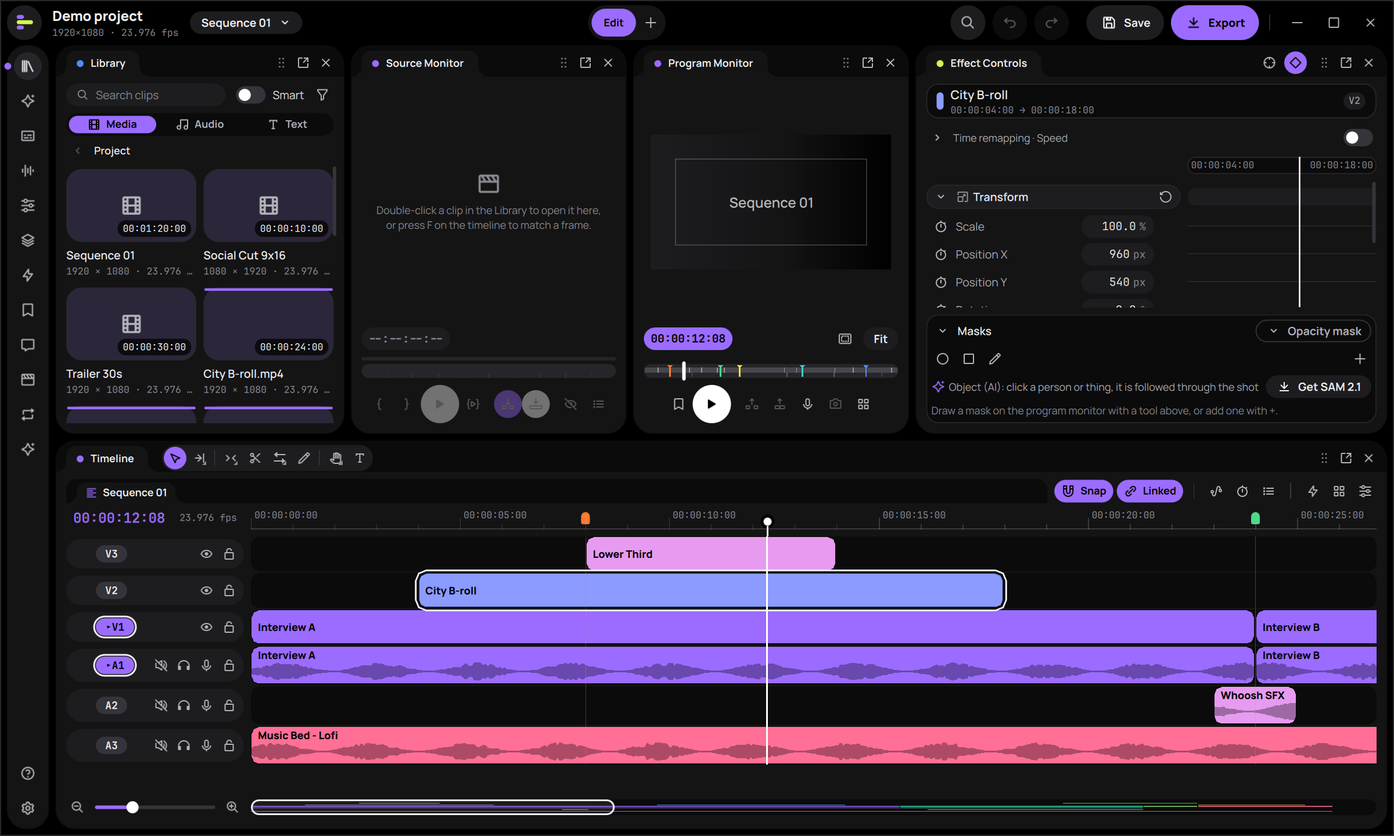
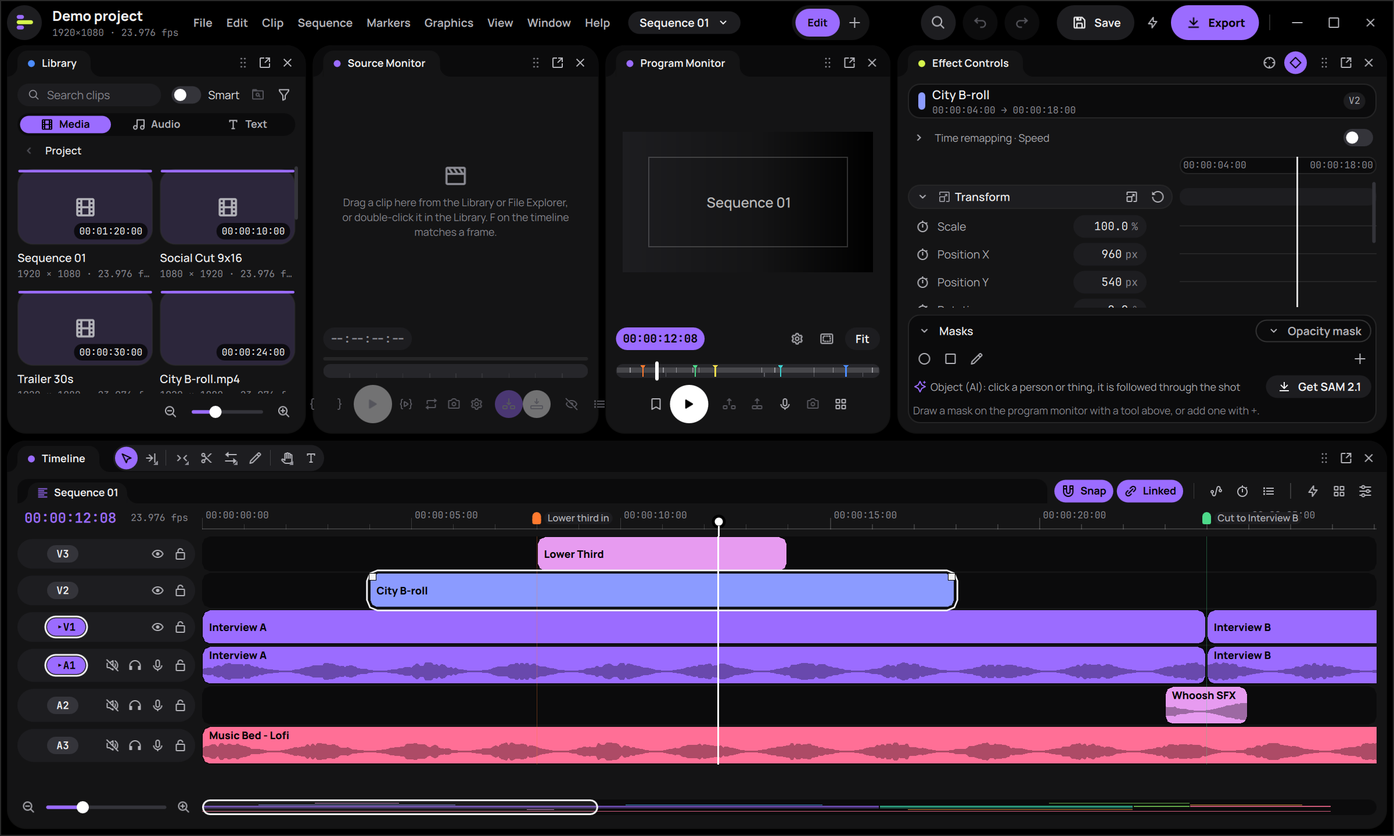
release: version 0.3.0 - release notes, roadmap, README, What's new
- CMakeLists.txt: 0.3.0. docs/release-notes-0.3.md: the 0.3.0 section the release text quotes, known issues; the
  install tree carries it. Project schema unchanged (18): 0.3 and 0.2 open each other's projects.
- Roadmap: 0.3.0 shipped. README: version, the current release, a new editor screenshot (menu bar, no rail).
- What's new: four 0.3 highlights first; the gaming highlight says what Home does now.

diff --git a/src/app/qml/onboarding/WhatsNewDialog.qml b/src/app/qml/onboarding/WhatsNewDialog.qml
@@ -9,9 +9,17 @@ WabcutDialog {
     id: dialog
     objectName: "whatsNewDialog"
 
-    // Keep in step with docs/roadmap.md when a milestone lands. This build: 0.2's Premiere parity first, then the gaming
-    // wave (M5o), M5k-M5n, C.7-C.12, A.3-A.9, AI-9-AI-13.
+    // Keep in step with docs/roadmap.md when a milestone lands. This build: 0.3's Home, menu bar, Effects panel and
+    // everyday editing first, then 0.2's Premiere parity, the gaming wave (M5o), M5k-M5n, C.7-C.12, A.3-A.9, AI-9-AI-13.
     readonly property var highlights: [
+        { key: "homeStart", icon: "house", title: qsTr("A new Home"),
+          text: qsTr("Home, Projects and Learn pages, one Import for files, folders and timelines, and a New project page with Advanced settings that can start from your media.") },
+        { key: "menuBar", icon: "columns-3", title: qsTr("A menu bar and a Window menu"),
+          text: qsTr("Premiere's menus in the title bar, each command with its shortcut. Window opens a panel in the group you clicked last, and Maximize Frame gives a group the whole work area.") },
+        { key: "effectsFolders", icon: "folders", title: qsTr("Effects in Premiere's folders"),
+          text: qsTr("Favorites, Presets, Video Effects and the rest in a List, Compact or Icons view; presets import and export per bin, and a double-click applies to every selected clip.") },
+        { key: "everyday", icon: "check", title: qsTr("Quicker everyday editing"),
+          text: qsTr("Type a timecode to jump, ripple-delete a gap, add or delete tracks from a header's menu, read marker names on the ruler, search Settings, and export with your last choices.") },
         { key: "premiereTools", icon: "film", title: qsTr("More of Premiere"),
           text: qsTr("Premiere's 41 transitions and about 70 effects, Optical Flow slow motion, Morph Cut, Warp Stabilizer, clip groups and fade handles.") },
         { key: "exportQueue", icon: "list", title: qsTr("A Media Encoder queue"),
@@ -25,7 +33,7 @@ WabcutDialog {
         { key: "aiNested", icon: "sparkles", title: qsTr("AI through nested clips"),
           text: qsTr("Highlights, Auto Reframe and object masks read through multicam and nested clips; Redact finds the faces; sound effects come from a prompt with your own key.") },
         { key: "gamingStart", icon: "gamepad-2", title: qsTr("Made for gaming videos"),
-          text: qsTr("Drop an OBS or ShadowPlay recording on Home: its frame rate is kept, each audio track gets its own named track, and long or high-fps files get proxies.") },
+          text: qsTr("Drop an OBS or ShadowPlay recording on Home: the New project page matches its frame rate, gives each audio stream its own named track, and 4K, high-fps or long files get proxies.") },
         { key: "highlights", icon: "zap", title: qsTr("Find the highlights"),
           text: qsTr("Wabcut ranks the loudest, busiest moments of a VOD on this computer, then builds a highlight reel or a Short from the ones you keep.") },
         { key: "layouts", icon: "layout-grid", title: qsTr("Facecam layouts"),

diff --git a/tests/app/test_accessibility_m5n.cpp b/tests/app/test_accessibility_m5n.cpp
@@ -738,7 +738,8 @@ TEST_CASE("What's new M5n: this build's highlights, each one spoken; screenshot"
         CHECK_FALSE(h.toMap().value(QStringLiteral("title")).toString().isEmpty());
         CHECK_FALSE(h.toMap().value(QStringLiteral("text")).toString().isEmpty());
     }
-    CHECK(keys == QStringList{QStringLiteral("premiereTools"), QStringLiteral("exportQueue"),
+    CHECK(keys == QStringList{QStringLiteral("homeStart"), QStringLiteral("menuBar"), QStringLiteral("effectsFolders"),
+                              QStringLiteral("everyday"), QStringLiteral("premiereTools"), QStringLiteral("exportQueue"),
                               QStringLiteral("monitorMotion"), QStringLiteral("projectPanel"), QStringLiteral("audioPost"),
                               QStringLiteral("aiNested"), QStringLiteral("gamingStart"), QStringLiteral("highlights"),
                               QStringLiteral("layouts"), QStringLiteral("callouts"), QStringLiteral("moments"),
@@ -753,12 +754,12 @@ TEST_CASE("What's new M5n: this build's highlights, each one spoken; screenshot"
     QQuickItem* list = findNamed(popupItem(dialog), QStringLiteral("whatsNewList"));
     REQUIRE(list);
     CHECK(list->property("count").toInt() == highlights.size());
-    QQuickItem* first = findNamed(popupItem(dialog), QStringLiteral("whatsNew_premiereTools"));
+    QQuickItem* first = findNamed(popupItem(dialog), QStringLiteral("whatsNew_homeStart"));
     REQUIRE(first);
     QAccessibleInterface* iface = QAccessible::queryAccessibleInterface(first);
     REQUIRE(iface);
     CHECK(iface->role() == QAccessible::ListItem);
-    CHECK(iface->text(QAccessible::Name).startsWith(QStringLiteral("More of Premiere. ")));
+    CHECK(iface->text(QAccessible::Name).startsWith(QStringLiteral("A new Home. ")));
     CHECK_ACCESSIBLE(popupItem(dialog));
     spin(150);
     const QImage image = shell.grab();

diff --git a/docs/release-notes-0.3.md b/docs/release-notes-0.3.md
@@ -1,0 +1,219 @@
+# Wabcut 0.3: release notes (0.3.0)
+
+Windows 10/11 x64, with preview builds for Linux x64 and macOS on Apple silicon. Free and open source
+(GPL-3.0-or-later). No account, no subscription.
+
+Wabcut 0.3 changes how the app is laid out more than what it can edit. Home is now a start window with pages and one
+Import for everything. The editor has Premiere's menu bar and Window menu in place of the left rail, and the Effects
+panel uses Premiere's folders. Many everyday steps in the timeline, the monitors, the Library, Export and Settings take
+fewer clicks, and several shortcuts that did nothing in 0.2 now work.
+
+The project file format has not changed since 0.2 (schema 18): Wabcut 0.3 and 0.2 open each other's projects, and
+Wabcut 0.3 opens 0.1 projects.
+
+## 0.3.0 (23 October 2026)
+
+### Home
+- **A start window with pages:** **Home**, **Projects** and **Learn** in the bar on the left, and a **New project**
+  page. The window itself does not scroll; long lists scroll inside their own area. Along the top: a search over your
+  projects, **Open…** (Ctrl+O), **Import…** (Ctrl+I), **New project** (Ctrl+N or Ctrl+Alt+N) and **Back to …**
+  (with the project's name) when a project is open behind Home; Esc does the same. Ctrl+F goes to the search and Ctrl+,
+  opens Settings.
+- **The Home page:** **Continue** (the project you opened last, with Open and Show in Explorer), **Start** (New
+  project, Open project…, Import…, a drop well, Import folder… and a link to the guide for timelines from Premiere,
+  Resolve or Final Cut) and **Recent** (your latest projects as cards).
+- **One Import for everything:** Import…, Import folder… (read with its subfolders, up to 1,000 files) or files dropped
+  anywhere on Home. A Wabcut project opens. A timeline (FCP7 XML, FCPXML, OpenTimelineIO, EDL) becomes a new project
+  with its import report. A Premiere `.prproj` asks before the experimental reader runs. Files Wabcut cannot read (a
+  Resolve `.drp`, a Final Cut library, AAF, a dotLottie archive, a picture dragged from a web browser) say what to do
+  instead, with **How to export**. Media open the New project page with the files.
+- **New project page:** format tiles grouped Landscape / Vertical & square / Custom, with 1440p60, 4K UHD at 60 fps and
+  vertical 9:16 at 60 fps added; a free default name ("Untitled Project", "Untitled Project 2"…); the location; and a
+  summary line ("1920 × 1080 · 29.97 fps · 48 kHz stereo · 3 video / 3 audio tracks"). **Advanced settings** has the
+  frame size, the frame rate (up to 240 fps) and drop-frame timecode, pixel aspect, fields, start timecode, audio sample
+  rate, audio master (stereo or 5.1), how many video and audio tracks (1 to 99) and their format, colour management
+  and the preview file format, with **Reset to defaults**. These apply before the project exists, so a new project has
+  no undo step and nothing unsaved. Your last format and settings are filled in next time. A location that cannot be
+  made (a drive that is not there) is refused before anything is created.
+- **Start with media:** media imported from Home open the New project page with the files listed (remove any with ×),
+  **Match my media** chosen (the first video's size and frame rate; a variable frame rate becomes its nominal rate), the
+  first file's name, and **Add the clips to the sequence** on, so Create puts them on the timeline one after another.
+  A recording with several audio streams shows each stream on its own named track (Game, Mic, Discord) or left out,
+  and the project gets one audio track per stream you keep. Chips mark 4K, high frame rate, long, variable frame rate
+  and HDR media; proxies are made for 4K, above 60 fps, or 20 minutes and longer. This replaces 0.2's "New gaming
+  video" card.
+- **Projects page:** All or Starred, sorted by Last opened or Name, as a grid or a list (Wabcut remembers your choice).
+  Each project's menu (its **…** button, a right-click, the Menu key or Shift+F10) has Open, Open Next to This One, Show
+  in Explorer, Copy Path, Star / Unstar, **Locate…** (a project whose file moved) and Remove from List (a starred
+  project is unstarred too; Undo stars it again). The arrows move
+  between projects, Enter opens, and Delete removes one from the list with **Undo** (or Ctrl+Z) for a few seconds.
+  **Clear Unstarred Projects…** asks first. The list shows 50 projects (it was 12; Settings can change it), and starred
+  projects always stay.
+- **Learn:** **Explore the sample project** (it moved here from Home's header), the tour, the Keyboard Trainer and
+  What's new; the user guide on the Wabcut website (getting started, the window, coming from Premiere Pro, moving
+  timelines between editors, keyboard shortcuts, gaming videos, Shorts, video essays, documentaries); release notes,
+  the roadmap and reporting an issue. When Wabcut starts, the sample project waits behind Home until you open it from
+  Learn.
+- Home's messages (an import that failed, guidance, an open or save that failed) show in a strip under the top bar,
+  with an action where there is one (Save As…).
+
+### The editor's shell
+- **A menu bar** in the title bar, in Premiere's order: File, Edit, Clip, Sequence, Markers, Graphics, View, Window,
+  Help. Each command shows its shortcut and is greyed out when it cannot run now. A command acts where you were before the
+  menu opened: Mark In with the Source Monitor focused marks the source, Copy in a text field copies its text. Alt+F,
+  E, C, S, M, G, V, W and H open the menus on Windows and Linux (unless you gave that key to a command); Left and Right
+  move between open menus. In a narrow window the menus fold into one **Menu** button.
+- **File** adds **Open Recent** (the last ten projects, and Clear Recent), **Close Panel** (Ctrl+W), **Close Project**
+  (Ctrl+Shift+W; with only one project open, Home shows with the sample project behind it), **Save a Copy…**
+  (Ctrl+Alt+S: the project as it is now goes to another file, and you keep working in this one) and **Revert** (back to
+  the saved version, after a confirmation). **Edit** ends with **Settings…** (Ctrl+,).
+- **Window** has the workspaces (switch, New Workspace from a preset, Duplicate, Rename…, Delete…), **Maximize
+  Frame**, **Reset Panel Layout**, History and every panel. A closed panel opens as a tab in the **group you clicked
+  last**, which has an outline in the accent colour (violet unless you changed it); a panel that is open already comes forward where it is. Either way it gets the
+  keyboard.
+- **The left rail is gone.** The work area starts at the window's edge, the panels open from the Window menu, and
+  Settings > Interface no longer has the rail's editor.
+- **Maximize Frame:** **\`** maximizes the panel group under the pointer, **Shift+\`** the active group, and a
+  double-click on a tab does it too; the same again brings the other panels back.
+- **The tab menu:** right-click a panel's tab for Close Panel, Close Other Panels in Group, Undock Panel, Undock Panel
+  Group (Dock Panel Group while it has a window) and Maximize / Restore Frame. A lone panel's tab drags like a grouped
+  one.
+- **Help:** the Wabcut User Guide, Getting Started, Coming from Premiere Pro and Keyboard Shortcuts pages on the
+  website, then Keyboard Shortcuts…, Welcome and Setup…, Take the Tour, Keyboard Trainer…, What's New, Release Notes,
+  Open the Sample Project, Report an Issue and About Wabcut.
+- **One Wabcut at a time:** a `.wabcut` you double-click in File Explorer while Wabcut runs opens in that window
+  (Wabcut asks about unsaved changes first; the project that is already open just comes forward). `--new-instance` starts a second Wabcut.
+- **The window opens where you left it:** its size, position and maximized state; centred on the main screen when its
+  monitor is gone.
+- **Shortcuts that did nothing in 0.2 now work:** Shift+5 (Effect Controls), Alt+Shift+0 (Window > Reset Panel Layout,
+  with Undo on its message), Shift+` (Maximize Frame), Ctrl+W (Close Panel), Ctrl+Shift+W (Close Project), Ctrl+Alt+S (Save
+  a Copy), and Left / Right in the History panel. Settings (Ctrl+,) is a keymap command now, so you can give it another
+  key.
+- **The command palette** lists "Open panel: …", "Workspace: …", "Open Recent: …" and every setting, and the window
+  and workspace commands no longer say "Not available yet".
+- **Messages** at the bottom right can carry an action (Undo, Save As…, Show in Explorer) and stay while the pointer
+  is on them. A project that cannot be opened or saved always says why, and a failed save offers Save As…. Leaving the
+  sample project after editing it first asks "Discard your changes to the sample project?".
+
+### The Effects panel
+- **Premiere's folders:** Favorites (when you have some), Presets, Lumetri Presets, Audio Effects, Audio Transitions,
+  Video Effects, Video Transitions, Audio Plug-ins, then your custom bins. Presets bins nest and folders show how many
+  items they hold. At the next start the folders are closed except Favorites and the one you opened last; the folders
+  inside keep their state. A search opens every folder with a match and counts the matches; clearing it puts your
+  folders back as they were.
+- **Views and filters:** **List**, **Compact** or **Icons** (remembered), and a filter for All, Video, Audio,
+  Transitions, Presets, Favorites or Audio Plug-ins. Audio plug-ins can go in Favorites and custom bins, and the panel
+  remembers whether they are grouped by vendor or by category.
+- **Apply to every selected clip:** a double-click or Enter puts an effect, a preset or an audio plug-in on every
+  selected clip in one undo step. A transition goes on both ends of each selected clip.
+- **Presets per bin:** a presets bin's menu has **Import Presets…** (into that bin) and **Export Presets…** (that bin's
+  presets, as `<bin>.wabcut-presets.json`); the file dialogs start in the folder you used last.
+- **Drag and drop in the panel:** an effect dropped on a custom bin goes in it, one of your presets dropped on a
+  presets bin moves there, and a `.wabcut-presets.json` file dropped from File Explorer is imported.
+- **Menus:** Apply to Selected Clips, Add to / Remove from Favorites, Add to Custom Bin, Remove from the bin, **Set as
+  Default Transition**, Preset Properties…, Export Preset…, New Presets Bin, Rename, Delete…, Expand All and Collapse
+  All.
+- **Deletes ask first** (Delete or Backspace, or the menus). F2 renames a custom bin or one of your presets bins in
+  place, and a new custom bin appears ready to name. The keyboard moves through folders and items (arrows, Home, End,
+  Page Up, Page Down; Left and Right close and open folders). A status line says what happened and clears itself; a
+  banner says when the presets library cannot be read.
+
+### Timeline and monitors
+- **Type a time:** click the timecode of the Timeline, the Program Monitor or the Source Monitor and type a timecode,
+  digits ("10203" is 00:01:02:03 in a timecode display, a frame count in Frames display), Premiere's shorthand ("2." is two seconds) or an offset ("+15", "-1:00"). Enter goes
+  there, Esc cancels. A time that drop-frame timecode skips goes to the next one that exists.
+- **Gaps:** click the empty space between two clips to select the gap. Delete (while the Timeline has the focus) or
+  right-click > **Ripple Delete** closes it in one undo step, or says why not (a sync-locked track with clips in that
+  time).
+- **Track headers** of video and audio tracks have a menu (right-click, the Menu key or Shift+F10): Rename…, Add Video
+  Track Above / Add Audio Track Below, **Add Tracks…** (how many of each kind, where, and the audio format), **Delete
+  Track** (it asks first when the track has clips), **Delete Empty Tracks** and Sync Lock. Double-click or F2 renames a
+  track in place, and its name shows beside V1 / A1 where there is room. Each is one undo step.
+- **Marker names on the ruler,** cut short before the next marker. Pointing at a marker shows its name, comment, time
+  and length, on the Program Monitor's time bar too.
+- **Default transitions:** choose the default video and audio transitions in Settings > Timeline & editing, or with
+  Set as Default Transition; Ctrl+D, Ctrl+Shift+D and Shift+D use them. Right-click a transition on the timeline for
+  **Set Duration…**, Center / Start / End at Cut, Replace with the default, Set as Default Transition and Clear.
+- **Reveal:** the clip menu has **Reveal in Project** (selects the clip's item in the Library and brings the Library
+  forward; give it a key in Keyboard Shortcuts: `clip.revealInProject`) and **Reveal in File Explorer**.
+- **Source Monitor drops:** drop a Library clip on the Source Monitor to open it there, or a file from File Explorer to
+  import it and open it.
+- **In and Out from the Library:** a Library item dragged to the timeline edits in only the In to Out you marked in the
+  Source Monitor, and its card shows that range as a band, with its length on the badge.
+- **Snap** and the time remapping view stay the way you left them at the next start.
+
+### Library, export and settings
+- **Library:** a thumbnail-size slider in the icon view, between zoom-out and zoom-in buttons; = and - (and Shift+] /
+  Shift+[) size the cards. Home, End, Page Up, Page Down and Shift with the arrows move or extend the selection in the
+  grid, list and Freeform views.
+- **Export remembers** the preset (or gaming preset), the range and the folder you used last. A sequence with In and
+  Out marks starts on In to Out (unless you last chose the whole sequence), and the button then says **Export In to
+  Out**. Picking another preset keeps the range you chose. **Reset to defaults** forgets it all.
+  Quick Export remembers its preset, has a Range row when the sequence has In/Out marks or a work area, and its preset
+  list works with the keyboard.
+- **Background work says when it ends:** Quick Export starting (Cancel), an export finished (Show in Explorer) or
+  failed with the reason (Show the queue), and Render In to Out done or failed (Try Again). While Home is open these
+  show in Home's message strip.
+- **Search in Settings:** the field at the top of Settings finds a setting by its name or a keyword ("proxies", "dark",
+  "default folder") and opens its page on it. The command palette lists every setting too.
+- **Start-up:** Settings > General > **When Wabcut starts**: Show Home, or Reopen the last project (not after a crash
+  or when there are autosaves to recover).
+- **Project defaults** in Settings > General > Projects: the default location for new projects, how many recent
+  projects to show, and project locking.
+
+### Fixes
+- Effect presets did not work from the panels: Save Preset, favourites, custom bins and Import / Export Presets
+  answered "No project", because the presets part of the app never got the open project. They work now.
+- The graphics tools in Callouts > Edit (Align and Distribute, Text Styles, Roll and Crawl) answered "No project" for
+  the same reason, and the Title Style panel's text styles list stayed empty.
+- File > Open Project…, an import or a drop of the project you are working in read it again from disk and dropped its
+  undo history; it now stays as it is (File > Revert reads the saved file again).
+- A panel dropped onto the Source and Program Monitors where they share a narrow place split them into two narrow
+  columns. A drop there now does nothing and the overlay says why; left or right of the pair it docks beside them.
+  Presses and hover there go to the monitor that is shown.
+- In a sequence that counts in frames or feet+frames (Sequence Settings > Display Format), typed lengths and times
+  (Speed/Duration, transition durations, caption times, marker times) are read in that format. They were read as
+  timecode.
+- Media with a variable frame rate that start a new project (imported or dropped over the sample project) give it
+  their nominal frame rate instead of 30 fps.
+- Importing media together with Lottie files over the sample project (File > Import, a drop on the timeline) put the
+  animations in the sample, where they were lost when the new project started; they now go into the new project.
+- Caption files dropped alone on Home made a project behind Home and said nothing; they now open the New project page,
+  and the project gets them as caption tracks.
+- A built-in Lumetri look that was exported and imported again was stuck in a bin you could not delete; it now lands
+  in a presets bin of its own that you can rename or delete.
+- The Effects panel no longer lists Essential Sound: that entry is the Essential Sound panel's record of a clip and
+  did nothing to the sound when applied from the Effects panel.
+
+What is not done or not checked yet is under [Known issues](#known-issues).
+
+## Known issues
+- The 0.3 changes are verified by automated tests only, in hidden windows. None of them has been through a release run
+  with real projects yet: keep backups of your projects.
+- Drag and drop (files dropped on Home, a picture dragged from a web browser, inside the Effects panel, onto the Source
+  Monitor, files from File Explorer onto the Effects panel) was tested with simulated drops, not with a real mouse drag. Pointing at markers on the ruler and the time bar was
+  tested with simulated hover only.
+- Screen readers have not been checked by hand (NVDA, Narrator). The Effects panel's rows report keyboard focus to
+  them, but whether a screen reader announces it is not confirmed, and folders say "open" or "closed" in their
+  description instead of as an expanded state (that needs Qt 6.12).
+- A gap can only be selected and a timeline transition's menu only opened with the pointer; a lone panel's tab menu has
+  no key (its actions do: Ctrl+W, Shift+`, the pop-out button). The timecode field opens with a click, or from the
+  keyboard once the timecode has the focus.
+- Applying a transition from the Effects panel puts it on both ends of each selected clip: Wabcut has no edit-point
+  selection yet. Dragging it onto an edit point works as before.
+- The Library's thumbnail slider is in the icon view only (the Freeform view's card size is an edit with its own undo
+  step). Ctrl+Delete and the next/previous field keys of Premiere's Project panel still do nothing.
+- On Home, Ctrl+N is New project; in the editor it stays New Sequence, as in Premiere. The History panel still has no
+  Delete or Clear.
+- Only project files go to the Wabcut that is running; a launch with media files starts its own Wabcut. On macOS the
+  menus have no Option+letter keys (Option+letter types accented characters there).
+- Linux and macOS are preview builds: nobody has tried the new Home, the menu bar, the single instance or the window
+  placement on a real Linux or macOS machine yet. The [0.2 known issues](release-notes-0.2.md#known-issues) still
+  apply.
+- Not code-signed; no auto-update. Real local-AI quality and live cloud-provider runs are not benchmarked.
+
+## Privacy
+
+Nothing leaves your computer unless you turn on a cloud feature with your own key, and every cloud call is shown with its
+cost first. Redacted regions and bleeped words are never uploaded in clear. Crash reports stay local until you choose
+to share them, and never contain API keys.

diff --git a/README.md b/README.md
@@ -9,7 +9,7 @@
 Premiere Pro's shortcuts and edit rules · round trips with Premiere, Resolve and Final Cut · AI that runs on your own machine
 
 [![Status: alpha](https://img.shields.io/badge/status-alpha-D6F54C)](#project-status)
-[![Version 0.2.0](https://img.shields.io/badge/version-0.2.0-9B6CFF)](docs/release-notes-0.2.md)
+[![Version 0.3.0](https://img.shields.io/badge/version-0.3.0-9B6CFF)](docs/release-notes-0.3.md)
 [![Platforms: Windows, with Linux and macOS previews](https://img.shields.io/badge/platforms-Windows%20%7C%20Linux%20%7C%20macOS%20%28preview%29-1D1D20)](#install)
 [![License: GPL-3.0-or-later](https://img.shields.io/badge/license-GPL--3.0--or--later-blue)](LICENSE)
 [![C++23](https://img.shields.io/badge/C%2B%2B-23-00599C?logo=cplusplus&logoColor=white)](docs/building.md)
@@ -21,18 +21,19 @@ Premiere Pro's shortcuts and edit rules · round trips with Premiere, Resolve an
 </div>
 
 > [!WARNING]
-> **Wabcut is in development. This is an alpha version (0.2.0).**
+> **Wabcut is in development. This is an alpha version (0.3.0).**
 > Expect bugs, missing features and changes between versions, including to shortcuts, settings and the project format.
 > Keep backups of your projects and media, and don't rely on it yet for deadline work or sensitive material.
 
-![The Wabcut editor: library, source and program monitors, effect controls and a multi-track timeline](docs/images/editor.png)
+![The Wabcut editor: the menu bar, library, source and program monitors, effect controls and a multi-track timeline](docs/images/editor.png)
 
 ## Why Wabcut
 
 - **Edit like Premiere.** Premiere Pro's default shortcuts and tools, `.kys` shortcut import and a Keyboard Trainer, so
   your muscle memory carries over. Since 0.2, Premiere's transitions and effects, Optical Flow, Warp Stabilizer, a
   Media Encoder-style export queue and the Project panel's metadata, search bins and Media Browser are there too
-  ([how it compares](docs/premiere-parity.md)).
+  ([how it compares](docs/premiere-parity.md)). 0.3 adds Premiere's menu bar, its Window menu and the Effects panel's
+  folders.
 - **Bring your edit with you.** Import timelines from Premiere Pro, DaVinci Resolve and Final Cut Pro (FCP7 XML,
   FCPXML, OpenTimelineIO, EDL) and send them back the same way.
 - **AI that stays yours.** Transcription, speech enhancement, smart search and object masks run locally. Cloud features
@@ -78,7 +79,8 @@ Premiere Pro's shortcuts and edit rules · round trips with Premiere, Resolve an
   </tr>
 </table>
 
-<sub>Screenshots: Wabcut 0.1.3 with its built-in demo project, captured by the automated UI tests.</sub>
+<sub>Screenshots: the editor at the top from Wabcut 0.3.0, the others from 0.1.3, all with the built-in demo project,
+captured by the automated UI tests.</sub>
 
 ### Who it is for
 
@@ -96,9 +98,11 @@ Premiere Pro's shortcuts and edit rules · round trips with Premiere, Resolve an
 
 ## Project status
 
-Wabcut is an **alpha**. The current release is **0.2.0**, which brings most of what Premiere Pro has for gaming videos,
-video essays and documentaries ([release notes](docs/release-notes-0.2.md)). Most of the editor works, but it has only
-been tested on a small number of machines and projects. Known gaps in this version:
+Wabcut is an **alpha**. The current release is **0.3.0**: a new Home with pages and one Import for everything,
+Premiere's menu bar and Window menu, the Effects panel in Premiere's folders, and many everyday steps made shorter
+([release notes](docs/release-notes-0.3.md)). 0.2 brought most of what Premiere Pro has for gaming videos, video essays
+and documentaries ([0.2 release notes](docs/release-notes-0.2.md)). Most of the editor works, but it has only been
+tested on a small number of machines and projects. Known gaps in this version:
 
 - **Made and tested on Windows.** Wabcut is built by a solo developer who works only on Windows 10 and 11. The Linux
   and macOS (Apple silicon) downloads are **previews**: GitHub's machines build, install, start and smoke-test them
@@ -107,12 +111,12 @@ been tested on a small number of machines and projects. Known gaps in this versi
 - **Not code-signed and no auto-update.** Windows SmartScreen may warn on first run, and macOS asks you to allow the
   first start.
 - **AI quality is not benchmarked yet.** Local models and live cloud providers have not been measured on real projects.
-- **0.2's features are tested by automated tests only.** None has been through a release run with real projects yet,
-  and AAF / OMF files have not yet been opened in Pro Tools.
+- **0.2's and 0.3's features are tested by automated tests only.** None has been through a release run with real
+  projects yet, and AAF / OMF files have not yet been opened in Pro Tools.
 - **Not built yet:** OpenFX video plug-ins, VR / 360 video, and cloud collaboration (review links, shared projects).
 - **Privacy redaction:** check every redacted export by eye before you share it.
 
-The full list is in the [release notes](docs/release-notes-0.2.md#known-issues).
+The full list is in the [release notes](docs/release-notes-0.3.md#known-issues).
 
 Need something that isn't here? [Open an issue](../../issues) and say what you're trying to make.
 

diff --git a/docs/roadmap.md b/docs/roadmap.md
@@ -8,6 +8,21 @@ will change as people use the editor and tell us what matters to them.
 
 ## Shipped
 
+### 0.3.0 (23 October 2026)
+Wabcut works more like a desktop app:
+- Home is a start window with Home, Projects and Learn pages, one Import for files, folders and timelines, and a New
+  project page with Advanced settings that can start from your media.
+- Premiere's menu bar (File to Help) in the title bar, in place of the left rail. The Window menu opens panels in the
+  group you clicked last; Maximize Frame and a tab menu for every panel.
+- The Effects panel in Premiere's folders, with List, Compact and Icons views, presets imported and exported per bin,
+  and effects applied to every selected clip.
+- Type a timecode to jump, ripple-delete a gap, add and delete tracks from a track's menu, marker names on the ruler,
+  and default transitions you choose.
+- Export remembers your last choices, Settings has a search, and Wabcut can reopen the last project when it starts.
+- One Wabcut at a time, and the window opens where you left it.
+
+The full list is in the [0.3 release notes](release-notes-0.3.md).
+
 ### 0.2.0 (22 October 2026)
 Most of what Premiere Pro has for gaming videos, video essays and documentaries ([how it compares](premiere-parity.md)):
 - Premiere's editing and sequence commands, Group / Ungroup, fade handles, the Pen on video opacity and Selection
@@ -63,7 +78,7 @@ The full list is in the [release notes](release-notes-0.1.md).
 ## Next: toward a beta
 
 Make Wabcut safe to trust with real projects:
-- Fix what people find in real projects. 0.1 and 0.2 were tested with a demo project and scripted test media, not yet
+- Fix what people find in real projects. 0.1 to 0.3 were tested with a demo project and scripted test media, not yet
   with real users' projects.
 - Check AAF, OMF and broadcast caption files in Pro Tools, Media Composer and Resolve.
 - Code-signed installers, so Windows SmartScreen stops warning, and automatic updates.
